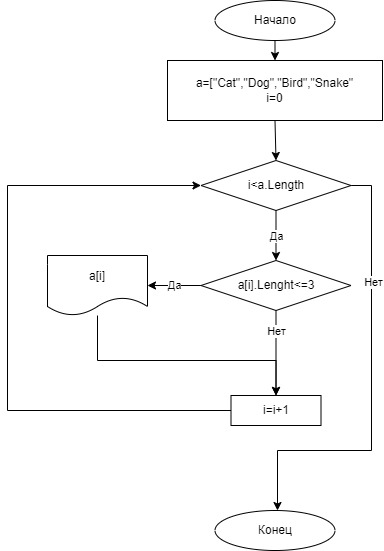
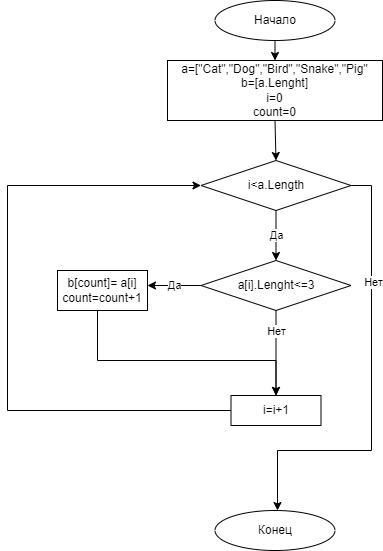
Новое решение

diff --git a/Program.cs b/Program.cs
@@ -1,12 +1,25 @@
-string [] a= {"Cat","Dog","Bird","Snake"};
-void VivodArray (string[]a)
+string[] a = { "Cat", "Dog", "Bird", "Snake", "Pig" };
+string[] b = new string[a.Length];
+void Zamena(string[] a, string[] b)
 {
-for (int i=0;i<a.Length;i++)
+    int count = 0;
+    for (int i = 0; i < a.Length; i++)
     {
-        if (a[i].Length<=3)
+        if (a[i].Length <= 3)
         {
-            System.Console.Write($" {a[i]} ");
+            b[count] = a[i];
+            count++;
         }
     }
 }
-VivodArray(a);
+void PrintArray(string[] a)
+{
+    for (int i = 0; i < a.Length; i++)
+    {
+        Console.Write($"{a[i]} ");
+    }
+    Console.WriteLine();
+}
+Zamena(a, b);
+PrintArray(b);
+
